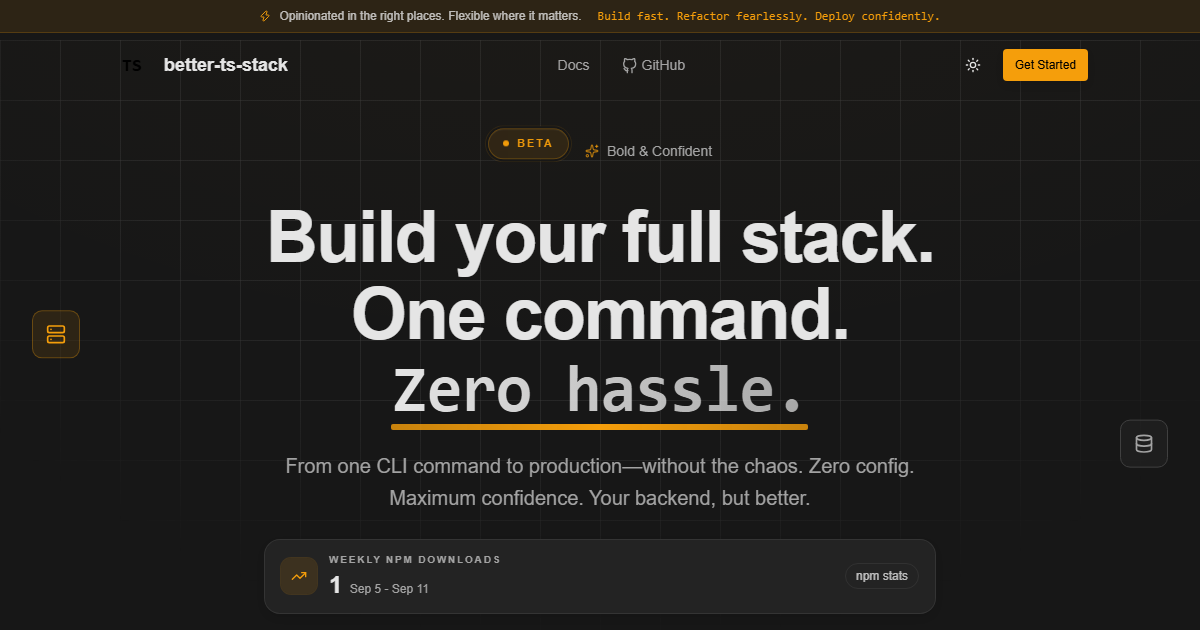
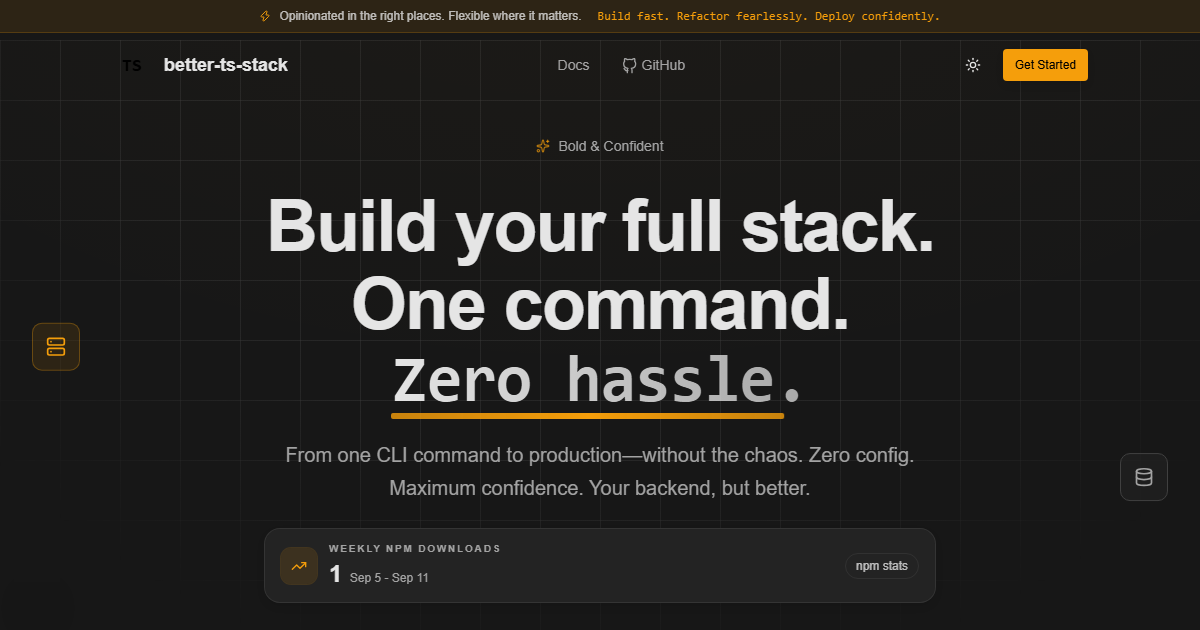
Refactor HeroSection component layout and update social card image

diff --git a/apps/docs/components/hero.tsx b/apps/docs/components/hero.tsx
@@ -64,23 +64,7 @@ export const HeroSection = () => {
       </FloatingIcon>
 
       <div className="relative z-10 mx-auto max-w-4xl text-center">
-        {/* Badge row: Beta + tagline */}
-        <FadeInUp className="mb-8 flex flex-col items-center justify-center gap-3 sm:flex-row sm:gap-4">
-          {/* Beta badge - floating, visible, animated */}
-          <FloatingIcon
-            duration={3.5}
-            yRange={[0, -8, 0]}
-            className="group border-primary/25 bg-primary/8 dark:bg-primary/10 ring-primary/10 ring-offset-background hover:border-primary/40 hover:bg-primary/12 inline-flex items-center gap-2 rounded-full border px-3.5 py-1.5 shadow-[inset_0_1px_0_0_rgba(255,255,255,0.05)] ring-1 ring-offset-2 backdrop-blur-sm transition-colors duration-200"
-          >
-            <span
-              className="bg-primary h-1.5 w-1.5 animate-pulse rounded-full"
-              aria-hidden
-            />
-            <span className="text-primary/95 text-[11px] font-semibold tracking-[0.18em] uppercase">
-              Beta
-            </span>
-          </FloatingIcon>
-          {/* Tagline */}
+        <FadeInUp className="mb-8 flex items-center justify-center">
           <span className="text-muted-foreground inline-flex items-center gap-2 text-sm">
             <Sparkles className="text-primary/70 h-3.5 w-3.5" />
             {HERO_CONFIG.badge.text}
